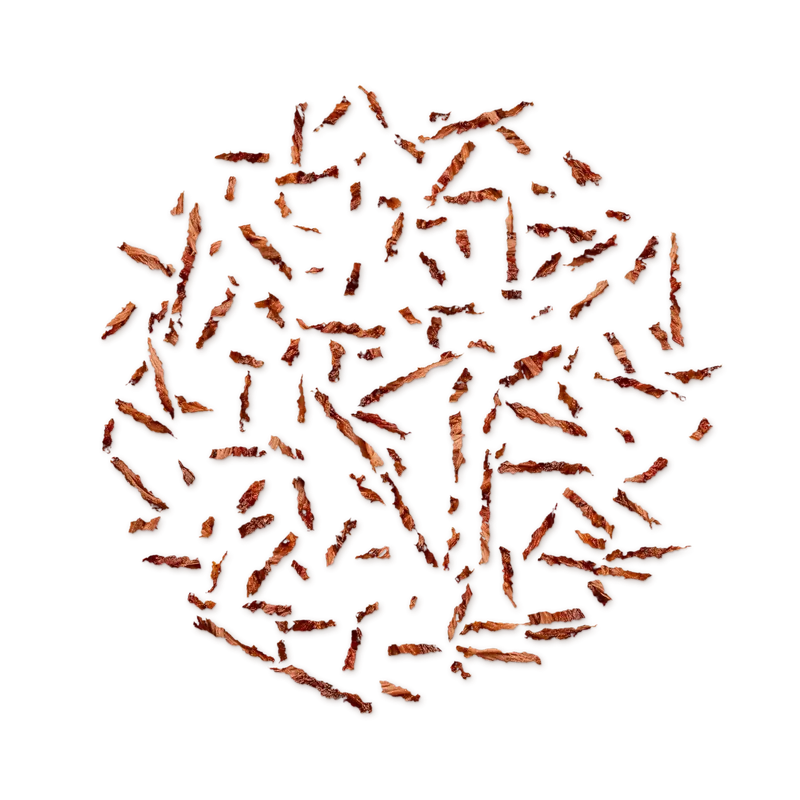
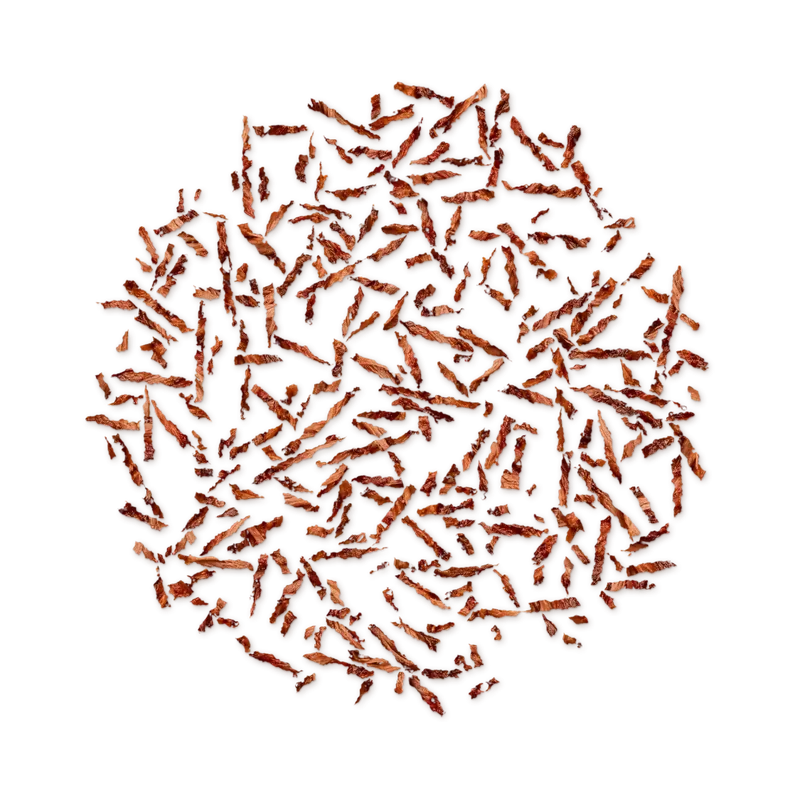
Pizza: foto nueva de carne desmechada
Claude-Session: https://claude.ai/code/session_01DxqiBbKBv4wDbq6rgi9yCV

Changed region(s): [[0.0938, 0.0938, 0.9062, 0.9062]]

diff --git a/Pages/pizza.html b/Pages/pizza.html
@@ -7,8 +7,8 @@
 <link rel="icon" href="../IMG/Logo-taz.png" type="image/png">
 <title>Pizza · TAZ Fast Food</title>
 <link href="https://fonts.googleapis.com/css2?family=Anton&family=Nunito:wght@500;700;800&display=swap" rel="stylesheet">
-<link rel="stylesheet" href="../Styles/pizza.css?v=37">
-<link rel="stylesheet" href="../Styles/checkout.css?v=37">
+<link rel="stylesheet" href="../Styles/pizza.css?v=38">
+<link rel="stylesheet" href="../Styles/checkout.css?v=38">
 </head>
 <body>
 <header class="top">
@@ -72,16 +72,16 @@
     <section class="step">
       <h3><i>1</i><span id="espTitle">Especialidad</span></h3>
       <div class="opts opts-base">
-      <button class="op" type="button" data-g="base" data-i="0" data-img="../IMG/Pizzas/hawaiana.webp?v=37" data-pz="13,19,24" data-tp="🍍 🧀 🥓" aria-pressed="false"><em>🍕</em><span class="tx"><b>Hawaiana</b><small>Piña, queso rayado, jamón (opcional cerezas)</small></span><span class="pr">$13.00</span></button>
-      <button class="op" type="button" data-g="base" data-i="1" data-img="../IMG/Pizzas/pepperoni.webp?v=37" data-pz="13,19,24" data-tp="🔴 🧀 🥓" aria-pressed="false"><em>🍕</em><span class="tx"><b>Pepperoni</b><small>Pepperoni, queso y jamón</small></span><span class="pr">$13.00</span></button>
-      <button class="op" type="button" data-g="base" data-i="2" data-img="../IMG/Pizzas/tropical.webp?v=37" data-pz="15,22,26" data-tp="🍍 🍒 🍑 🥓 🧀" aria-pressed="false"><em>🍕</em><span class="tx"><b>Tropical</b><small>Piña, cereza, durazno, jamón, queso y salsa de la casa</small></span><span class="pr">$15.00</span></button>
-      <button class="op" type="button" data-g="base" data-i="3" data-img="../IMG/Pizzas/ay-dios-mio.webp?v=37" data-pz="15,22,28" data-tp="🍗 🍄 🧀" aria-pressed="false"><em>🍕</em><span class="tx"><b>Ay Dios Mío</b><small>Pollo desmechado, champiñones, jamón, queso rayado y salsa de la casa</small></span><span class="pr">$15.00</span></button>
-      <button class="op" type="button" data-g="base" data-i="4" data-img="../IMG/Pizzas/californiana.webp?v=37" data-pz="16,24,29" data-tp="🍗 🍄 🦐 🥓 🧀 🌶" aria-pressed="false"><em>🍕</em><span class="tx"><b>Californiana</b><small>Pollo desmechado, champiñones, camarones, jamón, pimentón rojo y verde, queso rayado y salsa de la casa</small></span><span class="pr">$16.00</span></button>
-      <button class="op" type="button" data-g="base" data-i="5" data-img="../IMG/Pizzas/mexicana.webp?v=37" data-pz="16,24,29" data-tp="🥩 🥓 🧀 🌶 🧅" aria-pressed="false"><em>🍕</em><span class="tx"><b>Mexicana</b><small>Carne desmechada, jamón, queso rayado, pimentón, cebolla, salsa picosa de la casa y tocineta</small></span><span class="pr">$16.00</span></button>
-      <button class="op" type="button" data-g="base" data-i="6" data-img="../IMG/Pizzas/camarones.webp?v=37" data-pz="20,26,32" data-tp="🦐 🥓 🧀 🌶" aria-pressed="false"><em>🍕</em><span class="tx"><b>Camarones</b><small>Camarones, jamón, queso rayado, pimentón y salsa de la casa</small></span><span class="pr">$20.00</span></button>
-      <button class="op" type="button" data-g="base" data-i="7" data-img="../IMG/Pizzas/la-4k.webp?v=37" data-pz="22,28,34" data-tp="🥓 🌭 🧀 🥩" aria-pressed="false"><em>🍕</em><span class="tx"><b>La 4K</b><small>Jamón, carne de res, pollo, chorizo, tocino y queso rayado</small></span><span class="pr">$22.00</span></button>
-      <button class="op" type="button" data-g="base" data-i="8" data-img="../IMG/Pizzas/legendaria.webp?v=37" data-pz="16,22,28" data-tp="🥩 🌽 🥓 🌶 🧀" aria-pressed="false"><em>🍕</em><span class="tx"><b>Legendaria</b><small>Carne molida, maíz, tocino, pimiento, jamón, queso y salsa de la casa</small></span><span class="pr">$16.00</span></button>
-      <button class="op cartel" type="button" data-g="base" data-i="9" data-img="../IMG/Pizzas/base-queso.webp?v=37" data-pz="10,15,19" data-custom="1" aria-pressed="false"><em><i class="blank" aria-hidden="true"></i></em><span class="tx"><span class="tag">¡Nueva!</span><b>Pizza a tu gusto</b><small>Empieza con una pizza en blanco (masa y queso) y ponle todos los ingredientes que quieras.</small></span><span class="pr">$10.00</span></button>
+      <button class="op" type="button" data-g="base" data-i="0" data-img="../IMG/Pizzas/hawaiana.webp?v=38" data-pz="13,19,24" data-tp="🍍 🧀 🥓" aria-pressed="false"><em>🍕</em><span class="tx"><b>Hawaiana</b><small>Piña, queso rayado, jamón (opcional cerezas)</small></span><span class="pr">$13.00</span></button>
+      <button class="op" type="button" data-g="base" data-i="1" data-img="../IMG/Pizzas/pepperoni.webp?v=38" data-pz="13,19,24" data-tp="🔴 🧀 🥓" aria-pressed="false"><em>🍕</em><span class="tx"><b>Pepperoni</b><small>Pepperoni, queso y jamón</small></span><span class="pr">$13.00</span></button>
+      <button class="op" type="button" data-g="base" data-i="2" data-img="../IMG/Pizzas/tropical.webp?v=38" data-pz="15,22,26" data-tp="🍍 🍒 🍑 🥓 🧀" aria-pressed="false"><em>🍕</em><span class="tx"><b>Tropical</b><small>Piña, cereza, durazno, jamón, queso y salsa de la casa</small></span><span class="pr">$15.00</span></button>
+      <button class="op" type="button" data-g="base" data-i="3" data-img="../IMG/Pizzas/ay-dios-mio.webp?v=38" data-pz="15,22,28" data-tp="🍗 🍄 🧀" aria-pressed="false"><em>🍕</em><span class="tx"><b>Ay Dios Mío</b><small>Pollo desmechado, champiñones, jamón, queso rayado y salsa de la casa</small></span><span class="pr">$15.00</span></button>
+      <button class="op" type="button" data-g="base" data-i="4" data-img="../IMG/Pizzas/californiana.webp?v=38" data-pz="16,24,29" data-tp="🍗 🍄 🦐 🥓 🧀 🌶" aria-pressed="false"><em>🍕</em><span class="tx"><b>Californiana</b><small>Pollo desmechado, champiñones, camarones, jamón, pimentón rojo y verde, queso rayado y salsa de la casa</small></span><span class="pr">$16.00</span></button>
+      <button class="op" type="button" data-g="base" data-i="5" data-img="../IMG/Pizzas/mexicana.webp?v=38" data-pz="16,24,29" data-tp="🥩 🥓 🧀 🌶 🧅" aria-pressed="false"><em>🍕</em><span class="tx"><b>Mexicana</b><small>Carne desmechada, jamón, queso rayado, pimentón, cebolla, salsa picosa de la casa y tocineta</small></span><span class="pr">$16.00</span></button>
+      <button class="op" type="button" data-g="base" data-i="6" data-img="../IMG/Pizzas/camarones.webp?v=38" data-pz="20,26,32" data-tp="🦐 🥓 🧀 🌶" aria-pressed="false"><em>🍕</em><span class="tx"><b>Camarones</b><small>Camarones, jamón, queso rayado, pimentón y salsa de la casa</small></span><span class="pr">$20.00</span></button>
+      <button class="op" type="button" data-g="base" data-i="7" data-img="../IMG/Pizzas/la-4k.webp?v=38" data-pz="22,28,34" data-tp="🥓 🌭 🧀 🥩" aria-pressed="false"><em>🍕</em><span class="tx"><b>La 4K</b><small>Jamón, carne de res, pollo, chorizo, tocino y queso rayado</small></span><span class="pr">$22.00</span></button>
+      <button class="op" type="button" data-g="base" data-i="8" data-img="../IMG/Pizzas/legendaria.webp?v=38" data-pz="16,22,28" data-tp="🥩 🌽 🥓 🌶 🧀" aria-pressed="false"><em>🍕</em><span class="tx"><b>Legendaria</b><small>Carne molida, maíz, tocino, pimiento, jamón, queso y salsa de la casa</small></span><span class="pr">$16.00</span></button>
+      <button class="op cartel" type="button" data-g="base" data-i="9" data-img="../IMG/Pizzas/base-queso.webp?v=38" data-pz="10,15,19" data-custom="1" aria-pressed="false"><em><i class="blank" aria-hidden="true"></i></em><span class="tx"><span class="tag">¡Nueva!</span><b>Pizza a tu gusto</b><small>Empieza con una pizza en blanco (masa y queso) y ponle todos los ingredientes que quieras.</small></span><span class="pr">$10.00</span></button>
       </div>
     </section>
     <section class="step">
@@ -95,15 +95,15 @@
       <div class="catpanel" data-cat="pro" hidden>
         <div class="cathead"><button class="back" type="button">‹ Volver</button><b>🍗 Proteínas</b></div>
         <div class="opts opts-ex">
-          <button class="op" type="button" data-g="ex" data-i="0" data-escala="1.16" data-layer="../IMG/Toppings/capas/queso.webp?v=37" data-p="2" data-cat="pro" aria-pressed="false"><em>🧀</em><span class="tx"><b>Queso extra</b></span><span class="pr">+$2.00</span></button>
-          <button class="op" type="button" data-g="ex" data-i="1" data-escala="1.16" data-layer="../IMG/Toppings/capas/jamon.webp?v=37" data-p="2" data-cat="pro" aria-pressed="false"><em>🍖</em><span class="tx"><b>Jamón</b></span><span class="pr">+$2.00</span></button>
-          <button class="op" type="button" data-g="ex" data-i="2" data-escala="1.16" data-layer="../IMG/Toppings/capas/tocineta.webp?v=37" data-p="2" data-cat="pro" aria-pressed="false"><em>🥓</em><span class="tx"><b>Tocineta</b></span><span class="pr">+$2.00</span></button>
-          <button class="op" type="button" data-g="ex" data-i="3" data-layer="../IMG/Toppings/capas/pepperoni.webp?v=37" data-p="2" data-cat="pro" aria-pressed="false"><em>🔴</em><span class="tx"><b>Pepperoni</b></span><span class="pr">+$2.00</span></button>
-          <button class="op" type="button" data-g="ex" data-i="4" data-layer="../IMG/Toppings/capas/pollo-desmechado.webp?v=37" data-p="2.5" data-cat="pro" aria-pressed="false"><em>🍗</em><span class="tx"><b>Pollo desmechado</b></span><span class="pr">+$2.50</span></button>
-          <button class="op" type="button" data-g="ex" data-i="5" data-escala="1.1" data-layer="../IMG/Toppings/capas/carne-desmechada.webp?v=37" data-p="2.5" data-cat="pro" aria-pressed="false"><em>🥩</em><span class="tx"><b>Carne desmechada</b></span><span class="pr">+$2.50</span></button>
-          <button class="op" type="button" data-g="ex" data-i="6" data-escala="1.07" data-layer="../IMG/Toppings/capas/carne-molida.webp?v=37" data-p="2.5" data-cat="pro" aria-pressed="false"><em>🧆</em><span class="tx"><b>Carne molida</b></span><span class="pr">+$2.50</span></button>
-          <button class="op" type="button" data-g="ex" data-i="7" data-escala="1.16" data-layer="../IMG/Toppings/capas/chorizo.webp?v=37" data-p="2" data-cat="pro" aria-pressed="false"><em><img class="ic" src="../IMG/Toppings/chorizo.webp?v=37" alt=""></em><span class="tx"><b>Chorizo</b></span><span class="pr">+$2.00</span></button>
-          <button class="op" type="button" data-g="ex" data-i="8" data-escala="1.16" data-layer="../IMG/Toppings/capas/camarones.webp?v=37" data-p="3.5" data-cat="pro" aria-pressed="false"><em>🦐</em><span class="tx"><b>Camarones</b></span><span class="pr">+$3.50</span></button>
+          <button class="op" type="button" data-g="ex" data-i="0" data-escala="1.16" data-layer="../IMG/Toppings/capas/queso.webp?v=38" data-p="2" data-cat="pro" aria-pressed="false"><em>🧀</em><span class="tx"><b>Queso extra</b></span><span class="pr">+$2.00</span></button>
+          <button class="op" type="button" data-g="ex" data-i="1" data-escala="1.16" data-layer="../IMG/Toppings/capas/jamon.webp?v=38" data-p="2" data-cat="pro" aria-pressed="false"><em>🍖</em><span class="tx"><b>Jamón</b></span><span class="pr">+$2.00</span></button>
+          <button class="op" type="button" data-g="ex" data-i="2" data-escala="1.16" data-layer="../IMG/Toppings/capas/tocineta.webp?v=38" data-p="2" data-cat="pro" aria-pressed="false"><em>🥓</em><span class="tx"><b>Tocineta</b></span><span class="pr">+$2.00</span></button>
+          <button class="op" type="button" data-g="ex" data-i="3" data-layer="../IMG/Toppings/capas/pepperoni.webp?v=38" data-p="2" data-cat="pro" aria-pressed="false"><em>🔴</em><span class="tx"><b>Pepperoni</b></span><span class="pr">+$2.00</span></button>
+          <button class="op" type="button" data-g="ex" data-i="4" data-layer="../IMG/Toppings/capas/pollo-desmechado.webp?v=38" data-p="2.5" data-cat="pro" aria-pressed="false"><em>🍗</em><span class="tx"><b>Pollo desmechado</b></span><span class="pr">+$2.50</span></button>
+          <button class="op" type="button" data-g="ex" data-i="5" data-escala="1.1" data-layer="../IMG/Toppings/capas/carne-desmechada.webp?v=38" data-p="2.5" data-cat="pro" aria-pressed="false"><em>🥩</em><span class="tx"><b>Carne desmechada</b></span><span class="pr">+$2.50</span></button>
+          <button class="op" type="button" data-g="ex" data-i="6" data-escala="1.07" data-layer="../IMG/Toppings/capas/carne-molida.webp?v=38" data-p="2.5" data-cat="pro" aria-pressed="false"><em>🧆</em><span class="tx"><b>Carne molida</b></span><span class="pr">+$2.50</span></button>
+          <button class="op" type="button" data-g="ex" data-i="7" data-escala="1.16" data-layer="../IMG/Toppings/capas/chorizo.webp?v=38" data-p="2" data-cat="pro" aria-pressed="false"><em><img class="ic" src="../IMG/Toppings/chorizo.webp?v=38" alt=""></em><span class="tx"><b>Chorizo</b></span><span class="pr">+$2.00</span></button>
+          <button class="op" type="button" data-g="ex" data-i="8" data-escala="1.16" data-layer="../IMG/Toppings/capas/camarones.webp?v=38" data-p="3.5" data-cat="pro" aria-pressed="false"><em>🦐</em><span class="tx"><b>Camarones</b></span><span class="pr">+$3.50</span></button>
         </div>
       </div>
       <div class="catpanel" data-cat="veg" hidden>
@@ -149,9 +149,9 @@
 </aside>
 <template id="tpl-item"><div class="it"><div class="row"><b class="nm"></b><span class="pt"></span></div><p class="ln"></p><div class="row"><div class="qty"><button data-c="-1" aria-label="Menos">−</button><span class="qn"></span><button data-c="1" aria-label="Más">+</button></div><button class="x" data-c="del">Quitar</button></div></div></template>
 <div class="toast" id="toast" role="status">Agregado al carrito</div>
-<script src="../JS/cart.js?v=37"></script>
-<script src="../JS/pizza.js?v=37"></script>
-<script src="../JS/toppings.js?v=37"></script>
-<script src="../JS/checkout.js?v=37"></script>
+<script src="../JS/cart.js?v=38"></script>
+<script src="../JS/pizza.js?v=38"></script>
+<script src="../JS/toppings.js?v=38"></script>
+<script src="../JS/checkout.js?v=38"></script>
 </body>
 </html>
